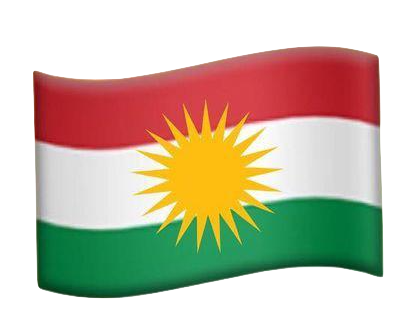
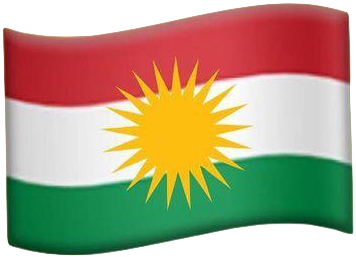
Adjust Kurdistan flag size to match other flags
- Reduce flag image height for better visual consistency
- Landing page: h-6, Onboarding: h-5

🤖 Generated with Claude Code

diff --git a/app/[locale]/(app)/onboarding/page.tsx b/app/[locale]/(app)/onboarding/page.tsx
@@ -151,7 +151,7 @@ export default function OnboardingPage() {
                           <img
                             src={loc.flagImage}
                             alt={loc.name}
-                            className="h-7 w-auto object-contain"
+                            className="h-5 w-auto object-contain"
                           />
                         ) : (
                           <div className="text-3xl">{loc.flag}</div>

diff --git a/app/[locale]/page.tsx b/app/[locale]/page.tsx
@@ -42,7 +42,7 @@ export default function LandingPage({
                         <img
                           src={locale.flagImage}
                           alt={locale.name}
-                          className="h-8 w-auto object-contain"
+                          className="h-6 w-auto object-contain"
                         />
                       ) : (
                         <div className="text-4xl">{locale.flag}</div>
